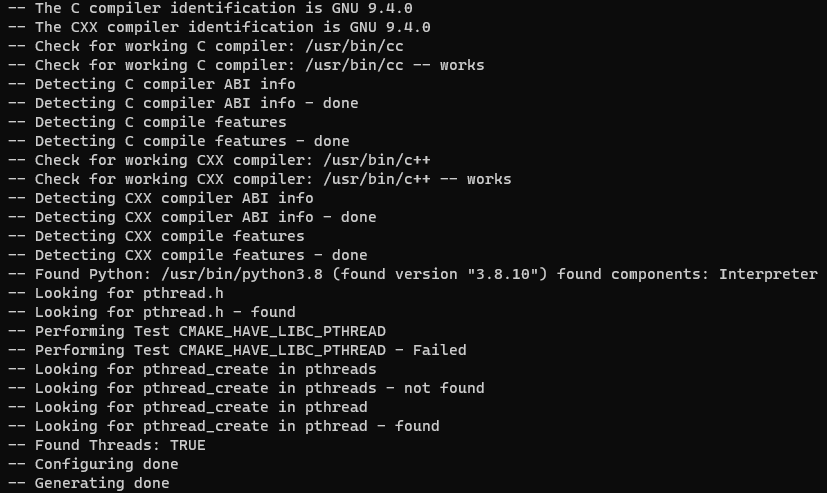
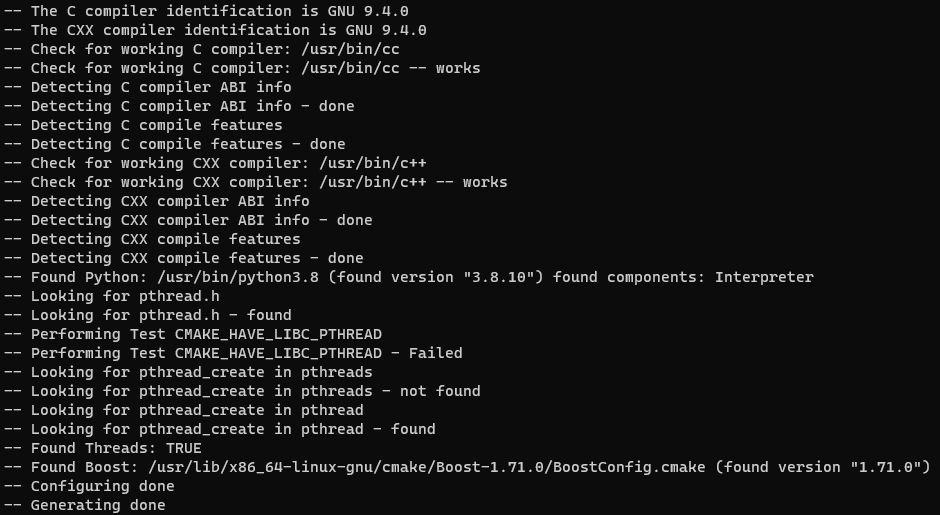
Update boost find package - add .gitignore - add boost find package command

Changed region(s): [[0.0, 0.0, 0.9976, 1.0]]

diff --git a/app/main.cpp b/app/main.cpp
@@ -1,5 +1,7 @@
 #include <iostream>
 
+#include <boost/lambda/lambda.hpp>
+
 #include "func.hpp"
 
 using namespace std;
@@ -9,6 +11,8 @@ int main()
     cout << "Hello, world!" << "\n";
 
     cout << "ret is : " << my_func(0) << "\n";
+
+    for_each(istream_iterator<int>(cin), istream_iterator<int>(), cout << (boost::lambda::_1 * 3) << " <\n");
 
     return 0;
 }

diff --git a/README.md b/README.md
@@ -5,13 +5,14 @@ C++ Boilerplate using CMake, Gcov, LCOV and GTest
 ## Requirement
 
 - CMake (3.16.3)
+- Boost (1.71.0)
 - g++/Gcov (9.4.0)
 - LCOV (1.14)
 - GTest (1.11.0)
 - Ninja (1.10.0)
 
 ```shell
-sudo apt install build-essential cmake ninja-build lcov
+sudo apt install build-essential libboost-all-dev cmake ninja-build lcov
 ```
 
 ## Generate
